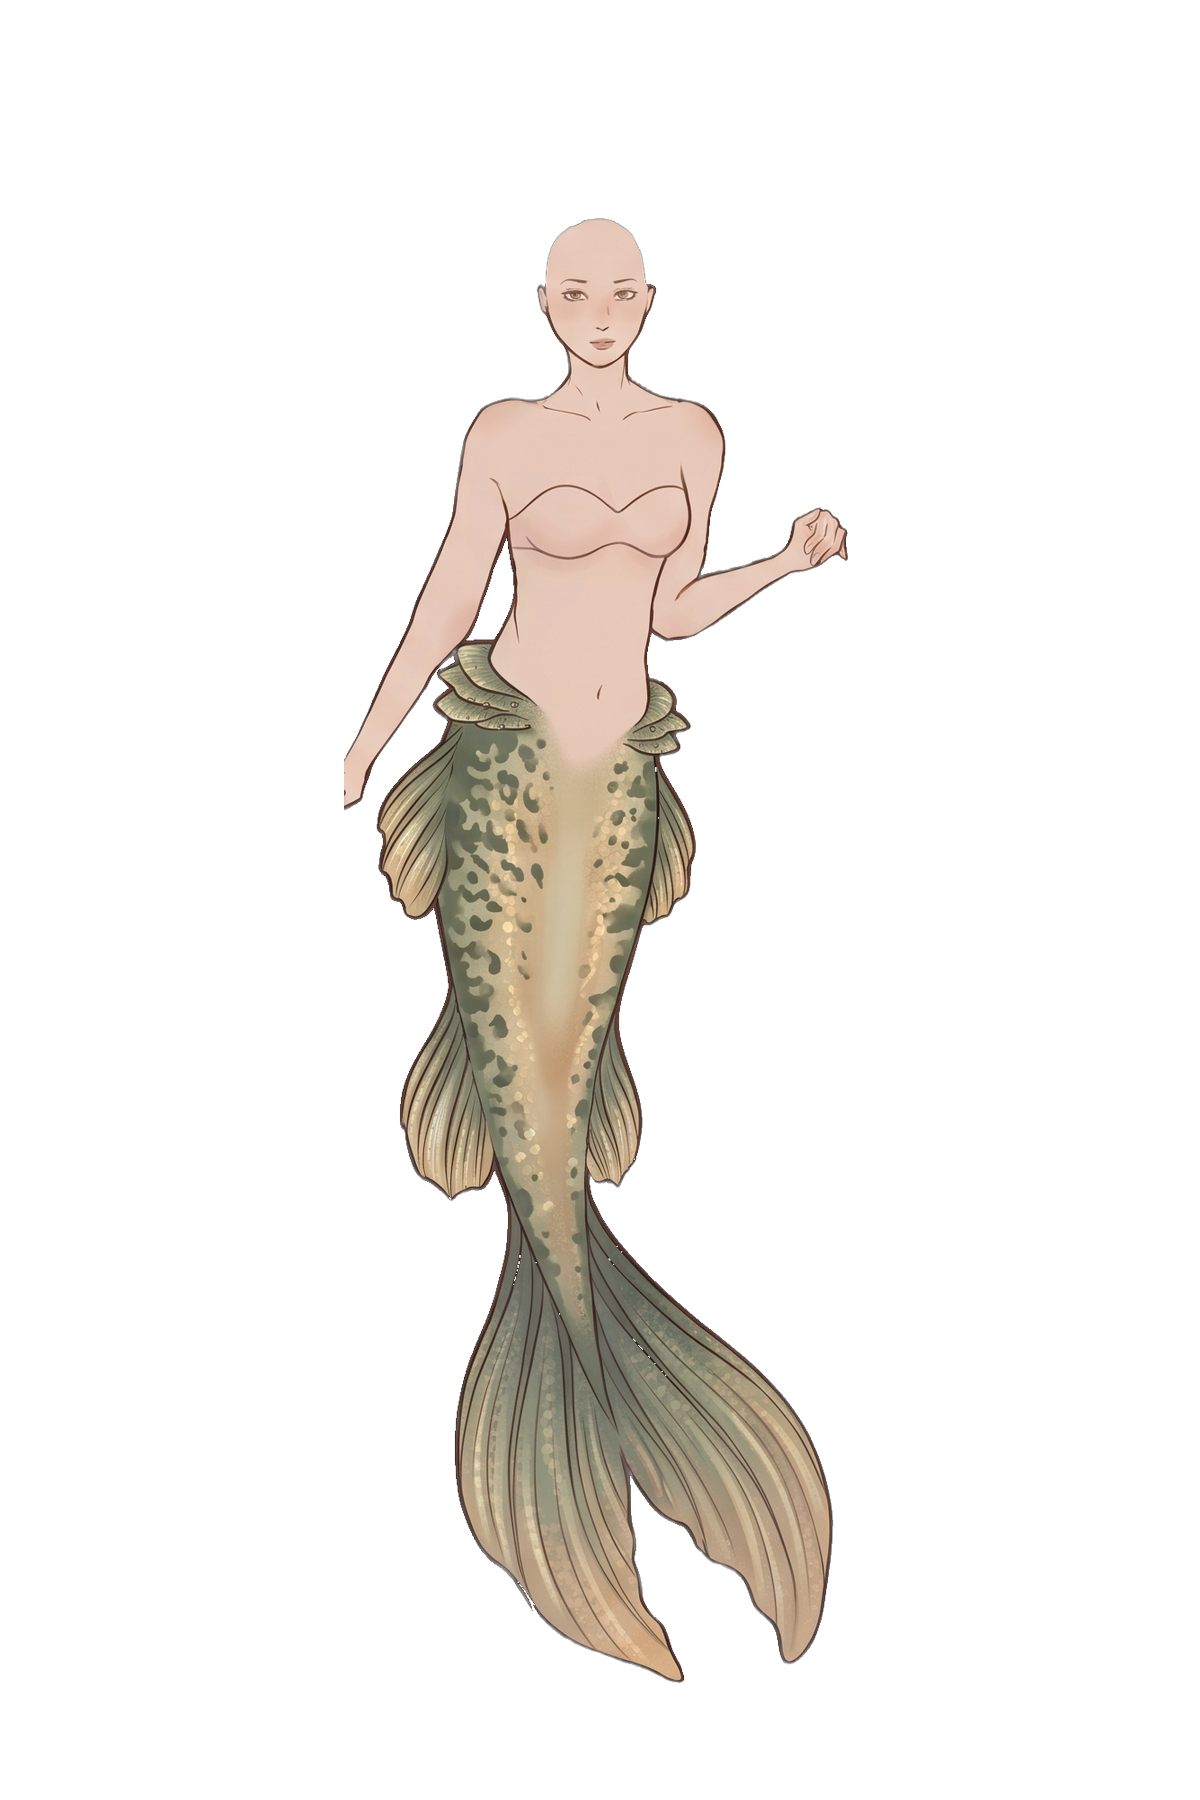
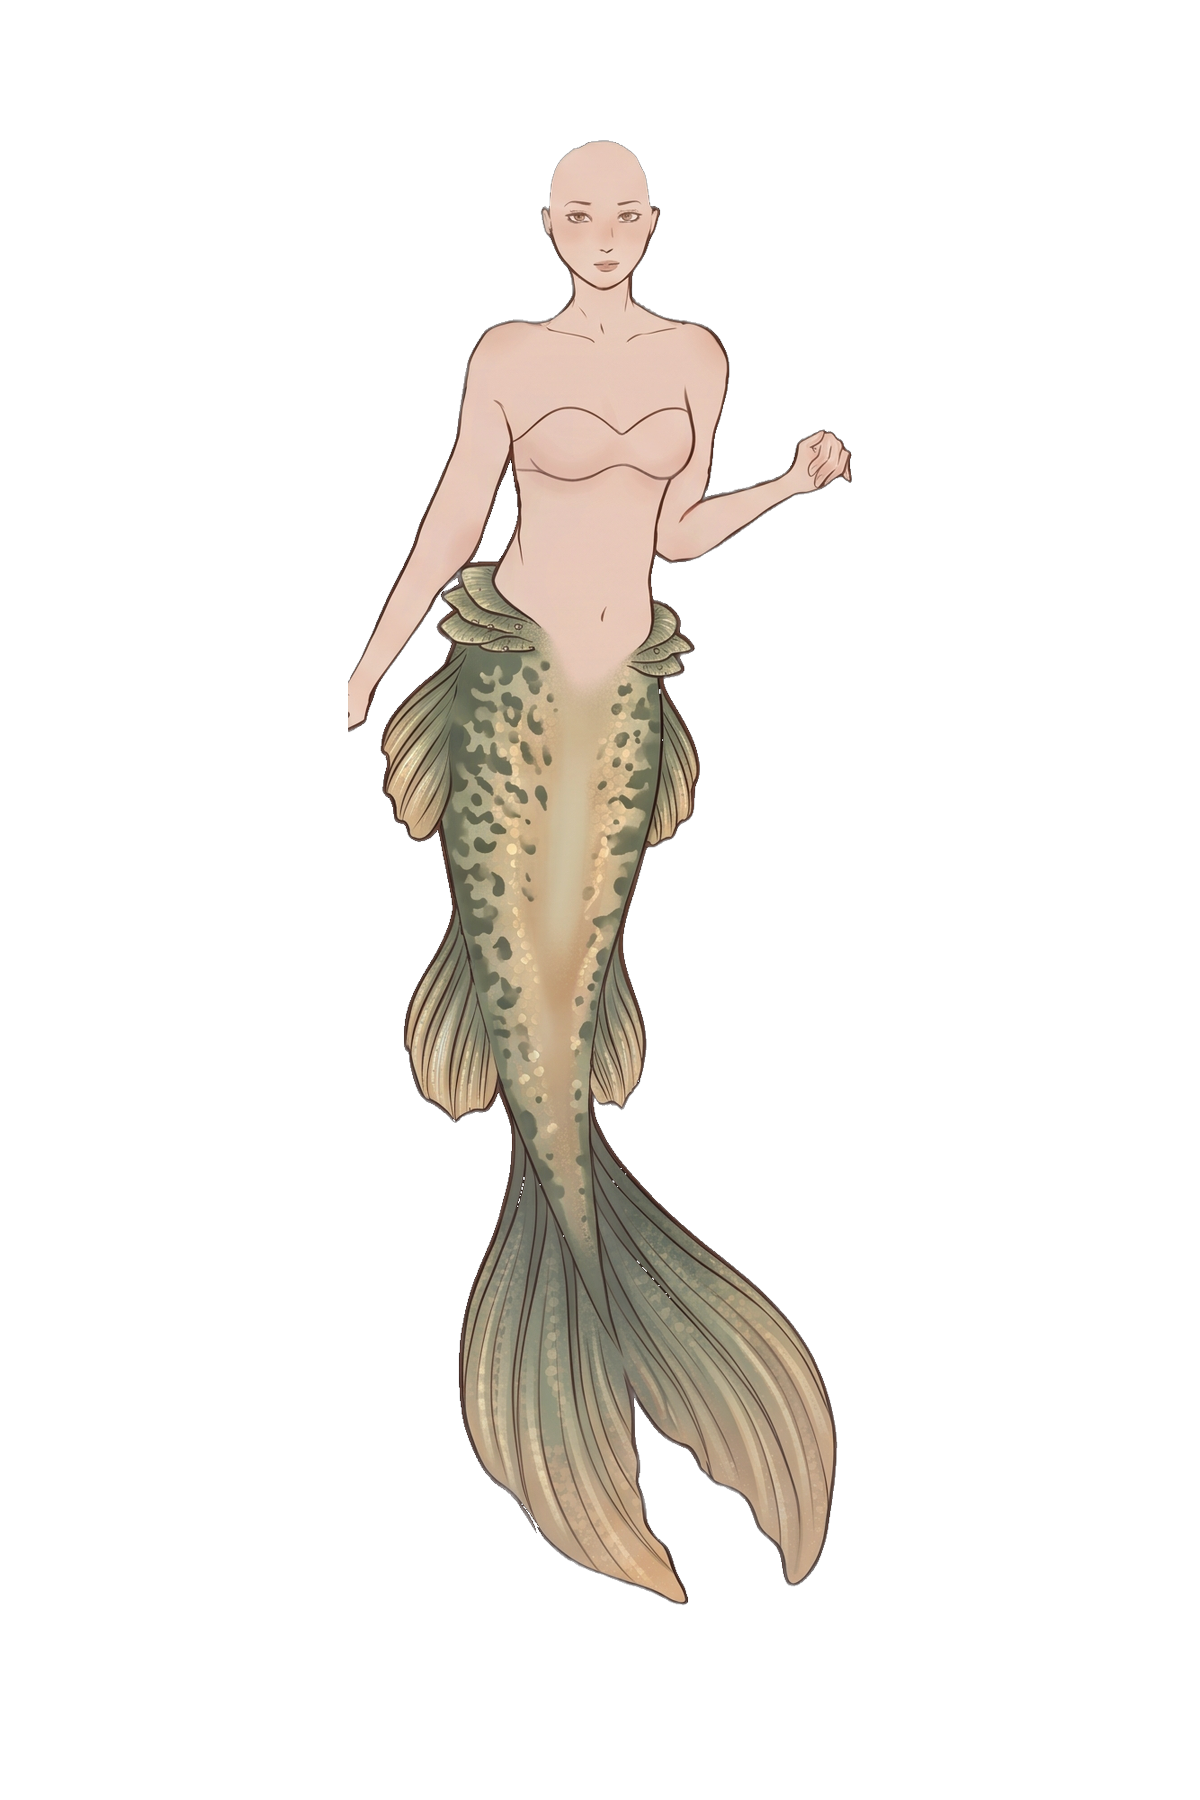
feat: pack-fitted wardrobe — APC human closet at creator scale
- apc_fit.py: global K from head/shoulder ratio; bases re-aligned to one
  shared head anchor so garments fit all four tails
- real items: 3 tops, 2 dresses, 2 skirts, pearl-heart locket (hero),
  hair bows, 4 APC hairs; generated placeholders removed
- new skirt slot replaces held (cut-list #3)

Changed region(s): [[0.2775, 0.0622, 0.7092, 0.9333]]

diff --git a/game/js/data.js b/game/js/data.js
@@ -1,11 +1,11 @@
 // All game content. Array order inside SLOTS is the stage z-order.
 
-export const SLOTS = ["bg", "hair_back", "base", "top", "neck", "hair_front", "head", "held", "fx"];
+export const SLOTS = ["bg", "hair_back", "base", "skirt", "top", "neck", "hair_front", "head", "held", "fx"];
 
 // UI wardrobe tabs (hair items render on the hair_front layer; a matching
 // *_back.png, when it exists, is added on hair_back automatically).
-export const WARDROBE_SLOTS = ["hair", "top", "neck", "head", "held"];
-export const SLOT_LAYER = { hair: "hair_front", top: "top", neck: "neck", head: "head", held: "held" };
+export const WARDROBE_SLOTS = ["hair", "top", "skirt", "neck", "head"];
+export const SLOT_LAYER = { hair: "hair_front", top: "top", skirt: "skirt", neck: "neck", head: "head", held: "held" };
 
 export const TAILS = [
   { id: "oceanic",      bias: "memory", src: "assets/bases/oceanic.png",
@@ -23,26 +23,31 @@ const hair = (id, vibe) => ({
   src: `assets/hair/hair_${id}.png`, thumb: `assets/thumbs/hair_${id}.webp`,
 });
 
+const apc = (id, slot, vibe, extra = {}) => ({
+  id, slot, vibe, src: `assets/items/${id}.png`, thumb: `assets/thumbs/${id}.webp`, ...extra,
+});
+
 export const ITEMS = [
-  // 12 finished hairs (free vibe carriers)
+  // 12 Gemini hairs (hers from the sea)
   hair("fringe", "tide"), hair("shag", "tide"), hair("split", "memory"), hair("spiral", "masque"),
   hair("shortwave", "masque"), hair("epic", "tide"), hair("longwave", "memory"), hair("bob", "masque"),
   hair("spring", "masque"), hair("summer", "memory"), hair("autumn", "tide"), hair("winter", "memory"),
+  // 4 APC hairs (from her human life)
+  apc("hair_apc_black", "hair", "tide"),
+  apc("hair_apc_brunette", "hair", "memory"),
+  apc("hair_apc_blonde", "hair", "masque"),
+  apc("hair_apc_pink", "hair", "masque"),
 
-  // Placeholder wearables until the Gemini batches land (Task 7 swaps srcs)
-  { id: "top_kelp",   slot: "top",  vibe: "tide",   src: "assets/items/top_kelp.png",   thumb: "assets/thumbs/top_kelp.webp" },
-  { id: "top_party",  slot: "top",  vibe: "masque", src: "assets/items/top_party.png",  thumb: "assets/thumbs/top_party.webp" },
-  { id: "top_sweater", slot: "top", vibe: "memory", src: "assets/items/top_sweater.png", thumb: "assets/thumbs/top_sweater.webp" }, // his old sweater
-
-  { id: "neck_fang",  slot: "neck", vibe: "tide",   src: "assets/items/neck_fang.png",  thumb: "assets/thumbs/neck_fang.webp" },
-  { id: "neck_beads", slot: "neck", vibe: "masque", src: "assets/items/neck_beads.png", thumb: "assets/thumbs/neck_beads.webp" },
-  { id: "locket",     slot: "neck", vibe: "memory", src: "assets/items/locket.png",     thumb: "assets/thumbs/locket.webp", hero: true },
-  { id: "head_coral", slot: "head", vibe: "tide",   src: "assets/items/head_coral.png", thumb: "assets/thumbs/head_coral.webp" },
-  { id: "head_mask",  slot: "head", vibe: "masque", src: "assets/items/head_mask.png",  thumb: "assets/thumbs/head_mask.webp" },
-  { id: "head_ribbon",slot: "head", vibe: "memory", src: "assets/items/head_ribbon.png",thumb: "assets/thumbs/head_ribbon.webp" },
-  { id: "held_lantern",  slot: "held", vibe: "tide",   src: "assets/items/held_lantern.png",  thumb: "assets/thumbs/held_lantern.webp" },
-  { id: "held_maskstick",slot: "held", vibe: "masque", src: "assets/items/held_maskstick.png", thumb: "assets/thumbs/held_maskstick.webp" },
-  { id: "held_shell",    slot: "held", vibe: "memory", src: "assets/items/held_shell.png",    thumb: "assets/thumbs/held_shell.webp" },
+  // Her human wardrobe (the APC pack IS the closet she left behind)
+  apc("top_shirt1", "top", "masque"),
+  apc("top_sweater", "top", "memory"),   // his old sweater
+  apc("top_shirt3", "top", "tide"),
+  apc("dress_ruffle", "top", "masque"),  // a dress for a party
+  apc("dress_dark", "top", "tide"),
+  apc("skirt_plaid", "skirt", "memory"), // the skirt she wore back then
+  apc("skirt_soft", "skirt", "masque"),
+  apc("locket", "neck", "memory", { hero: true }), // the one thing the curse let her keep
+  apc("head_bows", "head", "masque"),
 ];
 
 export const VIBE_ICONS = { tide: "🌊", masque: "🎭", memory: "🕯" };

diff --git a/tools/apc_fit.py b/tools/apc_fit.py
@@ -1,0 +1,114 @@
+#!/usr/bin/env python3
+"""Fit APC pack garments to the mermaid bases.
+
+The whole pack shares one pixel scale with Body_1, so every item uses the
+same global factor K. Bases are first re-aligned so all four bodies share
+head-center x=CX and head-top y=HEAD_TOP on the 1200x1800 canvas; garments
+are then placed once, by anatomy anchor, and fit all four.
+
+  align   — measure each base raw, rewrite its layout x/y, recompose bases
+  anatomy — print canvas-space anatomy rows (neck/shoulder/waist...)
+  items   — compose every item in apc_items.json to game/assets/items/
+"""
+import json, sys
+from pathlib import Path
+import numpy as np
+from PIL import Image
+
+ROOT = Path(__file__).resolve().parent.parent
+APC = Path("/Users/yanai/Downloads/APC_assets")
+RAW = ROOT / "assets_raw"
+CANVAS = (1200, 1800)
+K = 0.373          # APC px -> canvas px (head-width + shoulder-width match)
+BASE_S = 0.9       # mermaid raw -> canvas (existing)
+CX = 600           # body center x on canvas
+HEAD_TOP = 140     # head top y on canvas
+
+def mask_of(im):
+    a = np.array(im.convert("RGBA"))
+    if a[:, :, 3].min() == 255:   # flat image: key near-white
+        return ~((a[:, :, 0] > 245) & (a[:, :, 1] > 245) & (a[:, :, 2] > 245))
+    return a[:, :, 3] > 24
+
+def head_metrics(mask):
+    rows = np.nonzero(mask.any(axis=1))[0]
+    top = rows[0]
+    H = rows[-1] - top
+    band = mask[top:top + int(H * 0.08)]
+    widths = []
+    for y in range(band.shape[0]):
+        xs = np.nonzero(band[y])[0]
+        if len(xs):
+            widths.append((xs[-1] - xs[0], (xs[0] + xs[-1]) / 2, top + y))
+    w, cx, _ = max(widths)
+    return {"head_top": int(top), "head_w": int(w), "head_cx": float(cx), "H": int(H)}
+
+def align():
+    layout = json.load(open(ROOT / "tools" / "layout.json"))
+    for bid in ["base_oceanic", "base_pearlescent", "base_deep_current", "base_reef"]:
+        m = head_metrics(mask_of(Image.open(RAW / f"{bid}.png")))
+        layout[bid]["x"] = round(CX - BASE_S * m["head_cx"])
+        layout[bid]["y"] = round(HEAD_TOP - BASE_S * m["head_top"])
+        print(bid, m, "->", layout[bid]["x"], layout[bid]["y"])
+    json.dump(layout, open(ROOT / "tools" / "layout.json", "w"), indent=2)
+
+def anatomy():
+    mask = mask_of(Image.open(RAW / "base_oceanic.png"))
+    rows = np.nonzero(mask.any(axis=1))[0]
+    top, H = rows[0], rows[-1] - rows[0]
+    m = head_metrics(mask)
+    y0 = HEAD_TOP - BASE_S * m["head_top"]
+    def canvas_y(raw_y): return round(y0 + BASE_S * raw_y)
+    prof = []
+    for y in range(top, top + int(H * 0.45), 4):
+        xs = np.nonzero(mask[y])[0]
+        prof.append((y, xs[-1] - xs[0] if len(xs) else 0))
+    head_w = m["head_w"]
+    neck = next(y for y, w in prof if y > top + head_w and w < head_w * 0.8)
+    shoulder = next(y for y, w in prof if y > neck and w > head_w * 1.8)
+    widths_after = [(y, w) for y, w in prof if y > shoulder + 40]
+    waist = min(widths_after, key=lambda t: t[1])[0]
+    out = {"neck": canvas_y(neck), "shoulder": canvas_y(shoulder), "waist": canvas_y(waist),
+           "head_top": HEAD_TOP, "cx": CX}
+    print(json.dumps(out))
+    return out
+
+def items():
+    try:
+        from rembg import remove, new_session
+        session = new_session("isnet-anime")
+    except Exception:
+        session = None
+    spec = json.load(open(ROOT / "tools" / "apc_items.json"))
+    anat = anatomy()
+    outdir = ROOT / "game" / "assets" / "items"
+    thumbs = ROOT / "game" / "assets" / "thumbs"
+    outdir.mkdir(parents=True, exist_ok=True)
+    thumbs.mkdir(parents=True, exist_ok=True)
+    for it in spec:
+        src = Image.open(APC / it["file"]).convert("RGBA")
+        a = np.array(src)
+        if a[:, :, 3].min() == 255:          # no transparency: cut it
+            if session:
+                from rembg import remove
+                src = remove(src, session=session)
+            else:
+                m = mask_of(src)
+                a[:, :, 3] = np.where(m, 255, 0)
+                src = Image.fromarray(a)
+        bbox = src.getbbox()
+        src = src.crop(bbox)
+        s = it.get("scale", 1.0) * K
+        im = src.resize((max(1, round(src.width * s)), max(1, round(src.height * s))), Image.LANCZOS)
+        ax = anat["cx"] + it.get("dx", 0) - im.width // 2
+        ay = anat[it["anchor"]] + it.get("dy", 0)
+        canvas = Image.new("RGBA", CANVAS, (0, 0, 0, 0))
+        canvas.paste(im, (round(ax), round(ay)), im)
+        canvas.save(outdir / f"{it['id']}.png")
+        t = src.copy()
+        t.thumbnail((200, 200), Image.LANCZOS)
+        t.save(thumbs / f"{it['id']}.webp", "WEBP")
+        print(f"{it['id']}: {im.size} at ({round(ax)},{round(ay)}) anchor={it['anchor']}")
+
+if __name__ == "__main__":
+    {"align": align, "anatomy": anatomy, "items": items}[sys.argv[1]]()

diff --git a/game-design.md b/game-design.md
@@ -87,6 +87,8 @@ He stands at the bonfire's edge, nearest the water — he always ends up nearest
 
 ## Characters & Slots (technical design)
 
+> **Update (Oct 31, build day):** the wardrobe pivoted to **pack-only assets** — the APC human closet fitted at creator scale (`tools/apc_fit.py`: one global ratio K measured head-to-head between the APC body and the mermaid bases, which share the same doll; all bases re-aligned to head-center 600/140 so one garment position fits all four). A `skirt` slot replaced `held` (cut-list #3). The locket is the pack's heart-pendant necklace. Gemini item batches are now an optional stretch, not the plan.
+
 Layer stack, bottom → top (every layer a full-canvas PNG at (0,0) — no anchor math):
 
 | z | Slot | Options (core / stretch) | Source |
